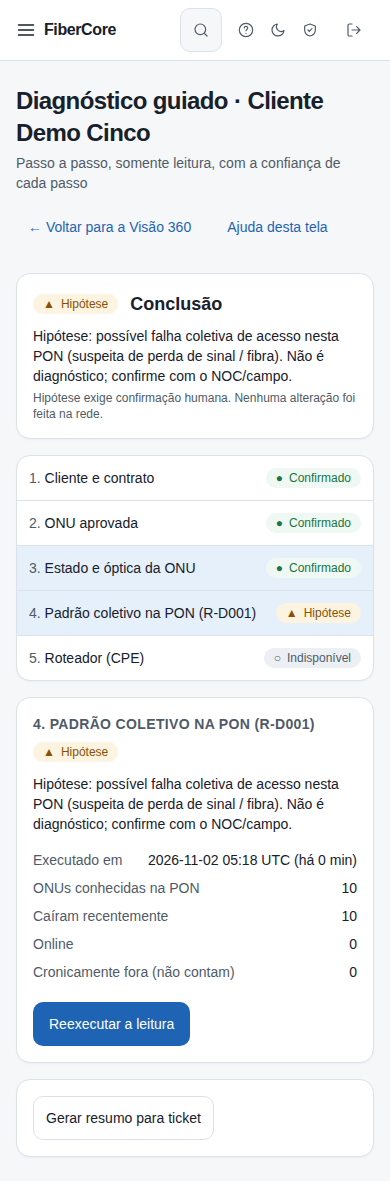
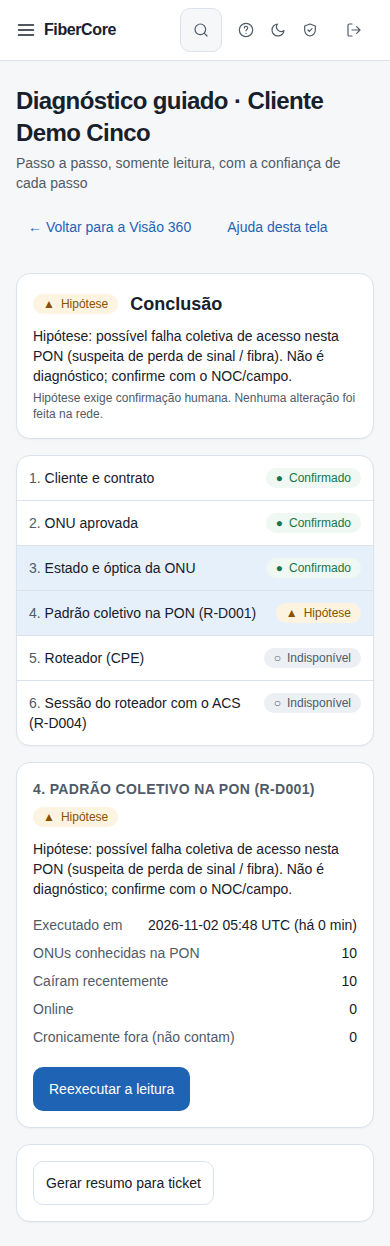
docs: captura do diagnóstico guiado com o passo 6 e log do Codex
Claude-Session: https://claude.ai/code/session_01G65B8a86N96ZoCrjd2Ad9b

diff --git a/docs/wiki/reviews/CODEX_REVIEW_LOG.md b/docs/wiki/reviews/CODEX_REVIEW_LOG.md
@@ -154,3 +154,4 @@ Riscos aceitos e documentados (não corrigidos): DoS direcionado por lockout de 
 | docs/ajuda-capturas-regeneradas | 3 | approve (rodada 3) | (brutos em `raw/416-*`…`raw/418-*`) Docs: capturas de 10 artigos da ajuda regeneradas do sistema funcionando (seed sintético) e proveniência/build corrigidos (`d2e519b`); `validate_help` PASS. r1/r2: a proveniência ainda citava o laboratório e um build antigo; os 3 artigos sem seção de evidência ganharam uma. |
 | docs/status-e-roadmap | 1 | approve (rodada 1) | (bruto em `raw/419-*`) Docs: `IMPLEMENTATION_STATUS` com a seção "Estado atual" e `ROADMAP_BACKLOG` com linhas desatualizadas corrigidas (W9, FC22-003/005/006/009, FC24-02, QI-02) e pendências separadas por tipo. Sem achados. |
 | docs/lab-api-edge-rd004 | 4 | approve (rodada 4) | (brutos em `raw/420-*`…`raw/423-*`) Docs: evidência operacional redigida do deploy da API (migração 0039) e do Edge `0.1.0-lab-fdf4da8` na LAB e da R-D004 com dado real. Achados: registro auditável faltando; metadados do backup (nome, hash, local, cifra) fora do repositório; aviso de que o downgrade apaga os Inform coletados. |
+| feat/diagnostico-guiado-rd003-rd004 | 1 | approve (rodada 1) | (bruto em `raw/424-*`) Web: passo 6 (R-D004, sessão do roteador com o ACS) no diagnóstico guiado, com achado lido em formato fechado, execuções dos passos 4 e 6 juntas (`run`/`run4`), BFF só aceita `rule=R-D001|R-D004` e `keep=<uuid>`; captura da ajuda regenerada. E2E funcional 33 passed. R-D003 não entrou (a leitura é por Edge, não por assinante). |

diff --git a/docs/help/how-to/assinantes/diagnostico-guiado.md b/docs/help/how-to/assinantes/diagnostico-guiado.md
@@ -50,7 +50,7 @@ Cada passo traz um rótulo (texto + símbolo): **Confirmado** (fato medido e rec
 
 ## Evidências de documentação
 
-- Build/commit: d2e519b (ramo principal; capturas regeneradas em 2026-11-02 na pilha efêmera de teste)
+- Build/commit: e697a98 (ramo feat/diagnostico-guiado-rd003-rd004; capturas regeneradas em 2026-11-02 na pilha efêmera de teste)
 - Browser/viewport: Chromium; desktop 1440×900 e mobile 390×844
 - Caso de teste E2E: help-screenshots.spec.ts › assinantes/diagnostico-guiado; app.spec.ts › Diagnóstico guiado
 - Dados: fictícios (seed `scripts/seed_demo.py`); sem informações reais de clientes
